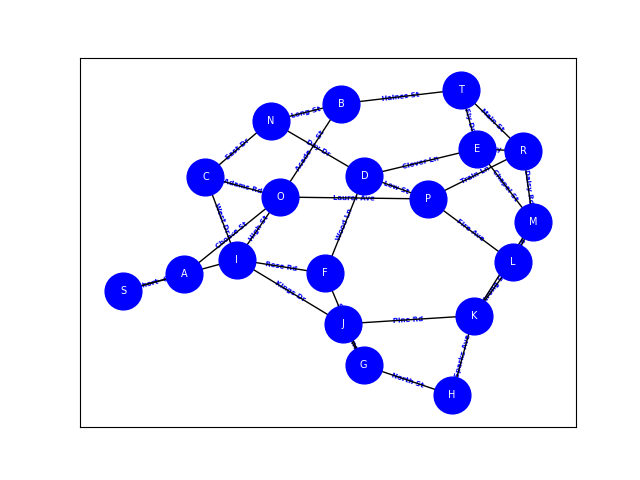
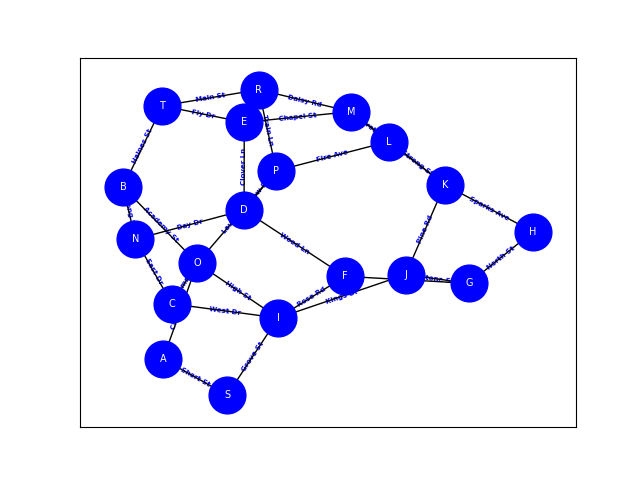
fixed index.md

Changed region(s): [[0.1562, 0.125, 0.875, 0.875], [0.7188, 0.4688, 0.75, 0.5]]

diff --git a/index.md b/index.md
@@ -239,6 +239,130 @@ The BFS algorithm is used to traverse a graph in a breadth-first manner, i.e., v
 
 The output shows that the neighborhood is connected, which means that Kim can visit all her neighbors without leaving the neighborhood. The output also provides a list of the houses in each level of the neighborhood. For example, house number 1 is in the first level, house numbers 2 and 3 are in the second level, and so on. This information can be helpful for Kim to easily remember which neighbors live in what part of the neighborhood.
 
+# Problem 3: Ally's Training
+
+**Informal Description**: 
+Ally is training in a new neighborhood today and wants to travel the entrie development. She is training for a marathon so she does not care how long it takes her or if she repeats houses. Ally will be starting at the intersection of Choate St. and Short St.
+
+> **Formal Description**:
+>  * Input: A graph of 20 nodes and 31 edges - edges labelled with street names, nodes labelled with house numbers.
+>  * Output: (String) A path that can be taken to traverse the entire neighboorhood represented by intersections. 
+
+**BFS Algorithm**
+
+**Setup code**:
+
+```python
+import networkx as nx
+import matplotlib.pyplot as plt
+```
+
+**Visualization**:
+
+![Ally's Map](/Ana_graph.png)
+
+**Solution code:**
+```python
+import networkx as nx
+import matplotlib.pyplot as plt
+
+g = nx.Graph()
+nodes = ["A","B","C","D","E","F","G","H"
+                  ,"I","J","K","L","M","N","O","P",
+                  "R","S","T"]
+g.add_nodes_from(nodes)
+
+
+g.add_edge("I", "O")
+g.add_edge("O", "C")
+g.add_edge("P", "O")
+g.add_edge("A", "O")
+g.add_edge("B", "O")
+g.add_edge("E", "M")
+g.add_edge("D", "E")
+g.add_edge("N", "D")
+g.add_edge("C", "N")
+g.add_edge("I", "C")
+g.add_edge("I", "S")
+g.add_edge("J", "I")
+g.add_edge("K", "J")
+g.add_edge("G", "H")
+g.add_edge("F", "G")
+g.add_edge("F", "D")
+g.add_edge("F", "I")
+g.add_edge("G", "J")
+g.add_edge("H", "K")
+g.add_edge("R", "M")
+g.add_edge("K", "L")
+g.add_edge("A", "S")
+g.add_edge("B", "N")
+g.add_edge("T", "B")
+g.add_edge("T", "E")
+g.add_edge("T", "R")
+g.add_edge("P", "R")
+g.add_edge("P", "L")
+g.add_edge("M", "K")
+g.add_edge("P", "L")
+g.add_edge("F", "I")
+g.add_edge("R", "E")
+g.add_edge("P", "D")
+g.add_edge("M", "L")
+
+pos = nx.fruchterman_reingold_layout(g)
+
+nx.draw_networkx_edge_labels(g,pos, edge_labels = {('A', 'S'):'Short St',
+    ('I', 'O') : 'High St',
+    ('O', 'C') : 'Adams Rd',
+    ('O', 'P') : 'Laurel Ave',
+    ('A', 'O') : 'Choate St',
+    ('O', 'B') : 'Academy St',
+    ('B','T') : 'Haines St',
+    ('E', 'M') : 'Chapel St',
+    ('D', 'E') : 'Clover Ln',
+    ('N','D') : 'Day Dr',
+    ('C', 'N') : 'East Dr',
+    ('I', 'C'): 'West Dr',
+    ('I', 'S') : 'Grove St',
+    ('J', 'I'):'Kings Dr' ,
+    ('K', 'J') : 'Pine Rd',
+    ('G', 'H') : 'North St',
+    ('F','G') : 'South St',
+    ('D','F') : 'Wood Ln',
+    ('F', 'I') : 'Rose Rd',
+    ('G','J') : 'Stone St',
+    ('H','K') : 'Sparks Ave',
+    ('R', 'M') : 'Daisy Rd',
+    ('K','L') : 'Strong St',
+    ('L','P') : 'Fire Ave',
+    ('B','N') : 'Long St',
+    ('E', 'T'): 'Fly Dr',
+    ('P', 'R'): 'Train Ln',
+    ('P', 'D'): 'Low St',
+    ('E', 'R'): 'Sky St',
+    ('T', 'R'): 'Main St',
+    ('L', 'M'): 'Velvet Dr'}
+    , font_color = "blue", label_pos = .5,rotate = True, font_size=5, font_weight = "bold")
+nx.draw_networkx(g, pos, with_labels=True,node_color="blue",node_size=700, font_color="white", font_size=7)
+
+plt.savefig("Ana_graph")
+plt.margins(0.1)
+plt.show()
+
+print(list(nx.edge_dfs(g,'A')))
+```
+
+**Output**
+
+The path of houses she can take to explore the entire neighborhood starting at intersection of Choate St. and Short St.:
+
+('A', 'O'), ('O', 'I'), ('I', 'C'), ('C', 'O'), ('O', 'P'), ('P', 'R'), ('R', 'M'), ('M', 'E'), ('E', 'D'), ('D', 'N'), ('N', 'C'), ('N', 'B'), ('B', 'O'), ('B', 'T'), ('T', 'E'), ('E', 'R'), ('R', 'T'), ('D', 'F'), ('F', 'G'), ('G', 'H'), ('H', 'K'), ('K', 'J'), ('J', 'I'), ('I', 'S'), ('S', 'A'), ('I', 'F'), ('J', 'G'), ('K', 'L'), ('L', 'P'), ('P', 'D'), ('L', 'M'), ('M', 'K')
+
+
+**Interpretation of Results**:
+The DFS algorithm provides a in depth path through a tree by the nodes. The algorithm travels as far down every unvisted "street" until a backtracking is required. It does not represent the shortest path because it will take O(V+E), V being vertices ( intersections) and e being edges (streets), to complete this path. 
+
+The output shows that Ally can travel get to every street in the nighborhood while only backtracking a few times. But she is training for a endurance based race, a little extra mileage will not hurt. 
+
 # Problem #4: Meet the neighbors!
 **Informal Description**: 
 Katie has recently moved into a new neighborhood named "Kruskal's Neighborhood". She is eager to make friends with her neighbors and wantes to know the best way to visit every house while taking the least amount of steps as possible. In addition to the best path, she also wants to know the total number of steps of said path. 
